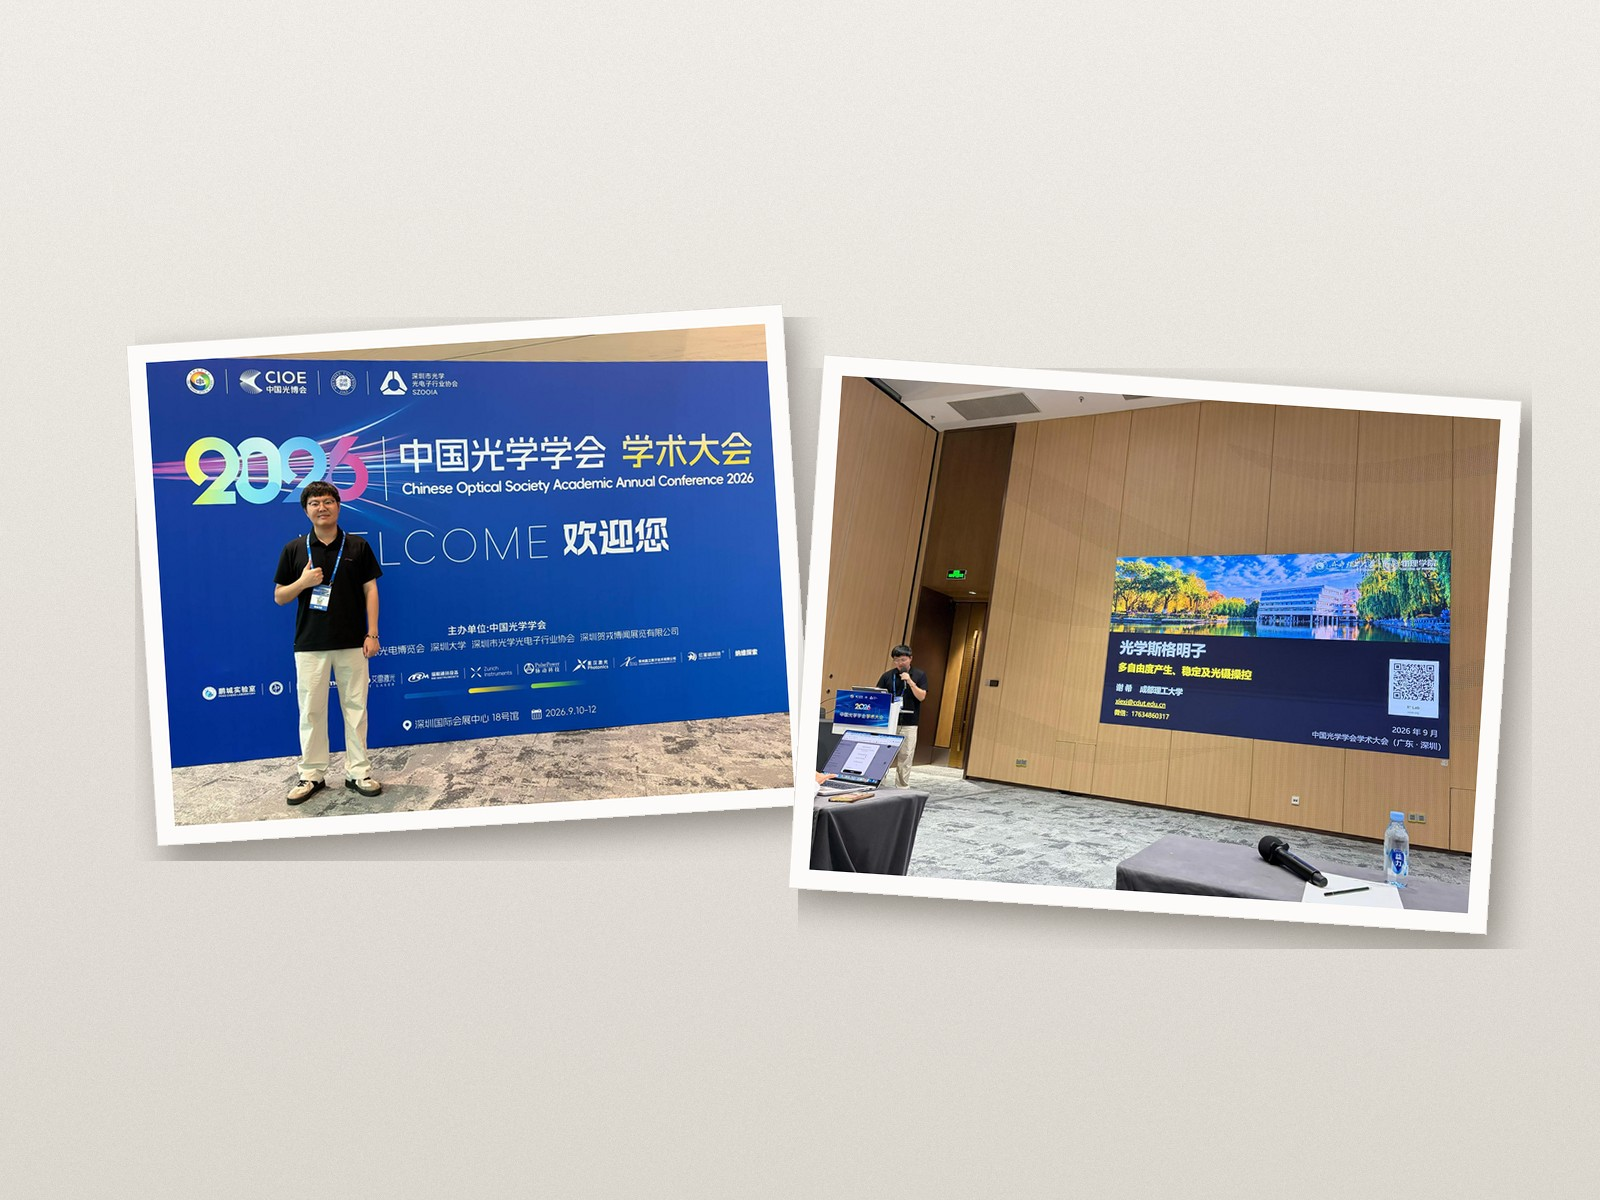
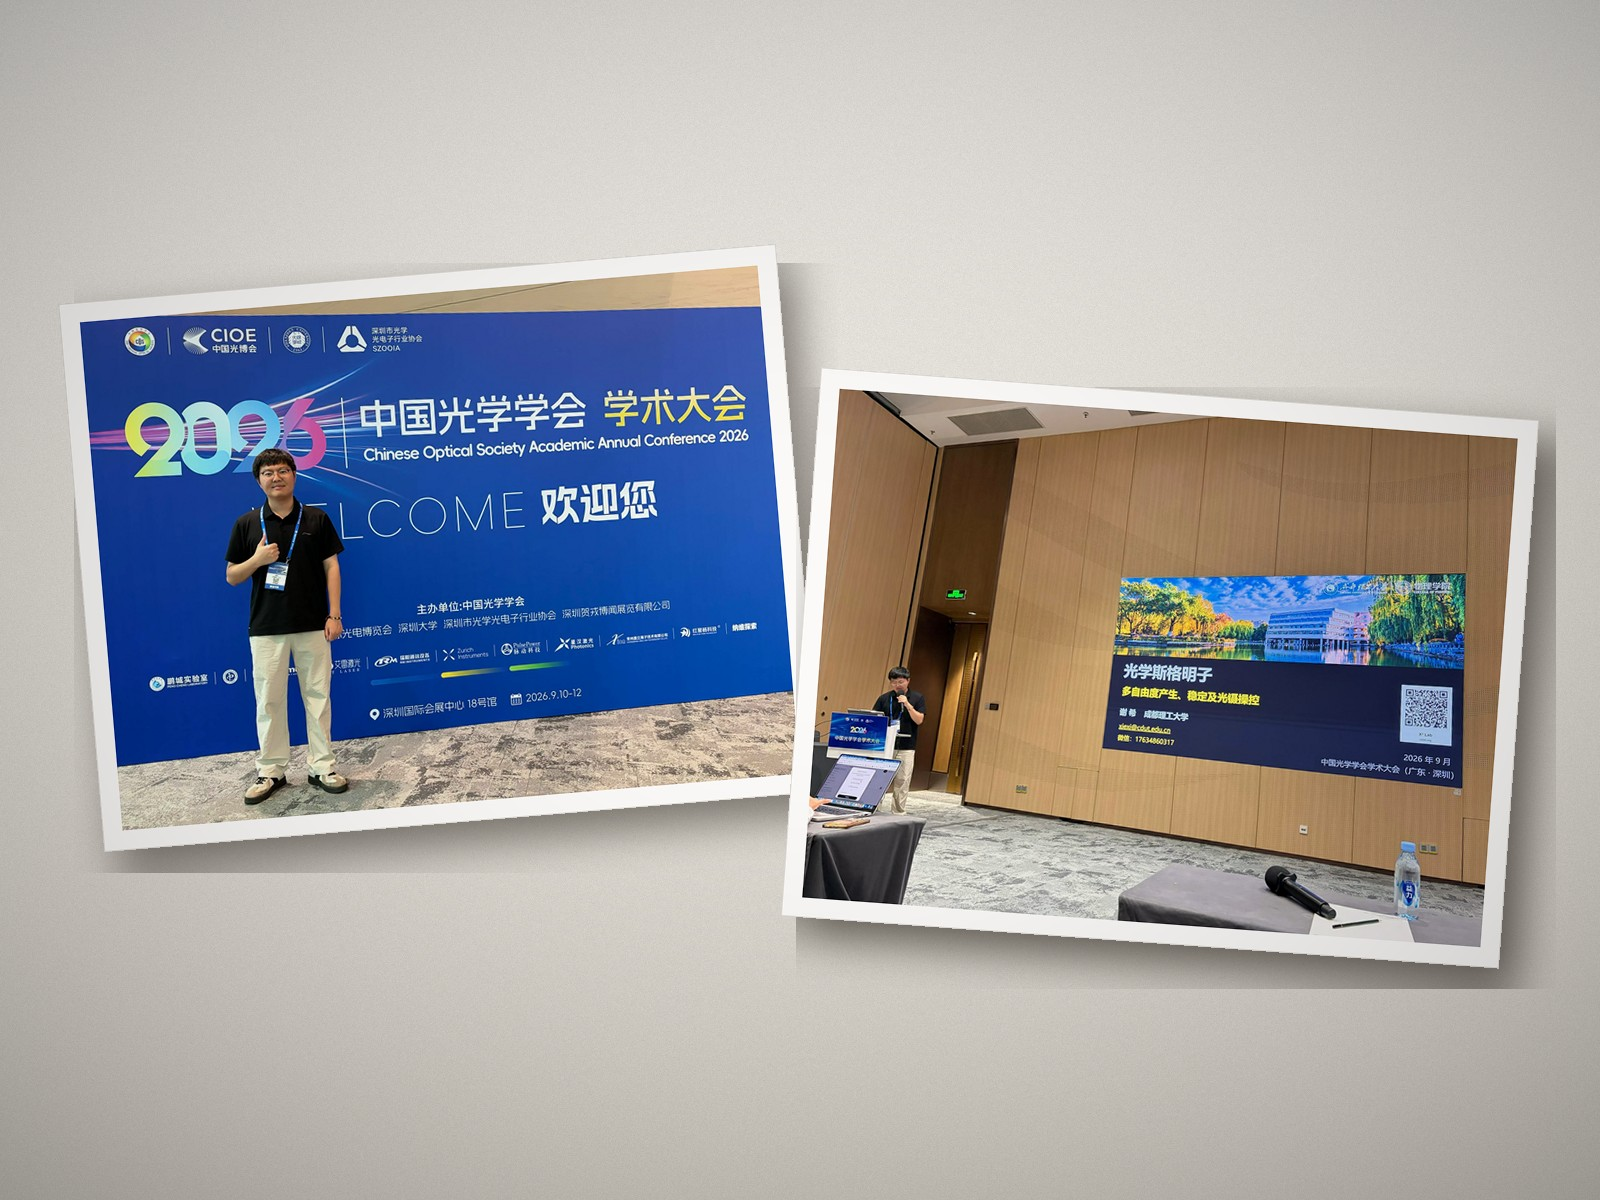
拼图改为大纸打底+斜压错落，收窄重叠避免切字，降低留白

diff --git a/scripts/pin_pair.py b/scripts/pin_pair.py
@@ -1,11 +1,8 @@
-"""两张照片拼成 4:3 相纸风拼贴（与 lcfa2026-1.jpg 同一视觉语言）"""
-import random
+"""两张照片拼成 4:3 相纸拼贴：大纸打底 + 第二张斜压其上，留白少、有遮挡层次"""
 import numpy as np
 from PIL import Image, ImageDraw, ImageFilter
 
 W, H = 1600, 1200
-WIN_W, WIN_H = 660, 495
-BORDER = 20
 
 
 def cover(im, w, h):
@@ -16,72 +13,88 @@ def cover(im, w, h):
     return im2.crop((x, y, x + w, y + h))
 
 
-def make_paper(src):
-    inner = cover(Image.open(src).convert('RGB'), WIN_W, WIN_H)
-    pw, ph = WIN_W + BORDER * 2, WIN_H + BORDER * 2
+def tint(im, warmth):
+    """warmth>0 偏暖（黄红），<0 偏冷（蓝）。幅度很小，只为打破两张纸的均质感。"""
+    if not warmth:
+        return im
+    r, g, b = im.split()
+    r = r.point(lambda v: min(255, int(v * (1 + 0.030 * warmth))))
+    b = b.point(lambda v: int(v * (1 - 0.028 * warmth)))
+    return Image.merge('RGB', (r, g, b))
+
+
+def make_paper(src, win_w, win_h, border, warmth=0.0):
+    inner = tint(cover(Image.open(src).convert('RGB'), win_w, win_h), warmth)
+    pw, ph = win_w + border * 2, win_h + border * 2
     p = Image.new('RGB', (pw, ph), (252, 251, 249))
-    p.paste(inner, (BORDER, BORDER))
-    d = ImageDraw.Draw(p)
-    d.rectangle([0, 0, pw - 1, ph - 1], outline=(226, 222, 216))
+    p.paste(inner, (border, border))
+    ImageDraw.Draw(p).rectangle([0, 0, pw - 1, ph - 1], outline=(224, 220, 214))
     return p
 
 
 def background():
-    top = np.array([239, 236, 231], dtype=np.float32)
-    bot = np.array([219, 214, 206], dtype=np.float32)
+    top = np.array([240, 237, 232], dtype=np.float32)
+    bot = np.array([214, 209, 200], dtype=np.float32)
     ramp = np.linspace(0, 1, H, dtype=np.float32)[:, None, None]
     arr = top[None, None, :] + (bot - top)[None, None, :] * ramp
     arr = np.repeat(arr, W, axis=1)
-    noise = np.random.default_rng(7).normal(0, 2.6, (H, W, 1)).astype(np.float32)
-    arr = np.clip(arr + noise, 0, 255).astype(np.uint8)
-    return Image.fromarray(arr, 'RGB')
+    noise = np.random.default_rng(7).normal(0, 2.8, (H, W, 1)).astype(np.float32)
+    return Image.fromarray(np.clip(arr + noise, 0, 255).astype(np.uint8), 'RGB')
 
 
-def place(canvas, paper, cx, cy, angle, shadow_alpha=130, shadow_offset=(10, 14), blur=16):
+def vignette(canvas, strength=0.20, reach=0.60):
+    w, h = canvas.size
+    y, x = np.mgrid[0:h, 0:w]
+    d = np.sqrt(((x - w / 2) / (w * reach)) ** 2 + ((y - h / 2) / (h * reach)) ** 2)
+    v = np.clip(1 - strength * np.clip(d, 0, 1.7) ** 2.2, 0, 1)
+    arr = np.asarray(canvas, dtype=np.float32) * v[:, :, None]
+    return Image.fromarray(np.clip(arr, 0, 255).astype(np.uint8), 'RGB')
+
+
+def place(canvas, paper, cx, cy, angle, shadow_alpha=155, offset=(16, 20), blur=20):
     rot = paper.rotate(angle, expand=True, resample=Image.BICUBIC)
     mask = Image.new('L', paper.size, 255).rotate(angle, expand=True, resample=Image.BICUBIC)
     sw, sh = rot.size
     shadow = Image.new('L', canvas.size, 0)
-    shadow_layer = Image.new('L', (sw, sh), 0)
-    shadow_layer.paste(mask, (0, 0))
-    shadow_layer = shadow_layer.point(lambda v: shadow_alpha if v > 128 else 0).filter(
-        ImageFilter.GaussianBlur(blur)
-    )
-    shadow.paste(shadow_layer, (int(cx - sw / 2 + shadow_offset[0]), int(cy - sh / 2 + shadow_offset[1])))
-    canvas.paste(Image.new('RGB', canvas.size, (60, 54, 46)), (0, 0), shadow)
+    layer = Image.new('L', (sw, sh), 0)
+    layer.paste(mask, (0, 0))
+    layer = layer.point(lambda v: shadow_alpha if v > 128 else 0).filter(ImageFilter.GaussianBlur(blur))
+    shadow.paste(layer, (int(cx - sw / 2 + offset[0]), int(cy - sh / 2 + offset[1])))
+    canvas.paste(Image.new('RGB', canvas.size, (58, 52, 44)), (0, 0), shadow)
     canvas.paste(rot, (int(cx - sw / 2), int(cy - sh / 2)), mask)
 
 
-def build(sources, out, layout):
+def build(out, layout):
     canvas = background()
     for item in layout:
-        src, cx, cy, ang = item[0], item[1], item[2], item[3]
-        scale = item[4] if len(item) > 4 else 1.0
-        paper = make_paper(src)
-        if scale != 1.0:
-            paper = paper.resize(
-                (int(paper.width * scale), int(paper.height * scale)), Image.LANCZOS
-            )
-        place(canvas, paper, cx, cy, ang)
+        paper = make_paper(item['src'], item['win'][0], item['win'][1], item.get('border', 20),
+                           item.get('warmth', 0.0))
+        if item.get('scale', 1.0) != 1.0:
+            s = item['scale']
+            paper = paper.resize((int(paper.width * s), int(paper.height * s)), Image.LANCZOS)
+        place(canvas, paper, item['cx'], item['cy'], item['angle'],
+              shadow_alpha=item.get('shadow', 155))
+    canvas = vignette(canvas)
     canvas.save(out, 'JPEG', quality=90, optimize=True, progressive=False)
     print('saved', out, canvas.size)
 
 
+BASE = r'C:\Users\admin\WorkBuddy\20260411131313\my-academic-homepage\public\Conference'
+
+JOBS = {
+    # 上层放内容更关键的一张：海报 / 大会背景板合影，压住现场照的边缘即可
+    'mahx2026-pair.jpg': [
+        dict(src=f'{BASE}\\mahx2026-2.jpg', win=(680, 510), cx=1160, cy=668, angle=4.4,
+             warmth=-0.5, shadow=185),
+        dict(src=f'{BASE}\\mahx2026-1.jpg', win=(680, 510), cx=440, cy=548, angle=-5.2, warmth=0.9),
+    ],
+    'osac2026-pair.jpg': [
+        dict(src=f'{BASE}\\osac2026-1.jpg', win=(680, 510), cx=440, cy=548, angle=4.8, warmth=-0.5),
+        dict(src=f'{BASE}\\osac2026-2.jpg', win=(680, 510), cx=1160, cy=668, angle=-4.2,
+             warmth=0.9, shadow=185),
+    ],
+}
+
 if __name__ == '__main__':
-    base = r'C:\Users\admin\WorkBuddy\20260411131313\my-academic-homepage\public\Conference'
-    build(
-        [f'{base}\\mahx2026-1.jpg', f'{base}\\mahx2026-2.jpg'],
-        f'{base}\\mahx2026-pair.jpg',
-        [
-            (f'{base}\\mahx2026-1.jpg', 445, 640, -4.2, 1.0),
-            (f'{base}\\mahx2026-2.jpg', 1160, 570, 3.4, 0.94),
-        ],
-    )
-    build(
-        [f'{base}\\osac2026-1.jpg', f'{base}\\osac2026-2.jpg'],
-        f'{base}\\osac2026-pair.jpg',
-        [
-            (f'{base}\\osac2026-1.jpg', 470, 575, 3.6, 0.94),
-            (f'{base}\\osac2026-2.jpg', 1155, 645, -3.8, 1.0),
-        ],
-    )
+    for name, layout in JOBS.items():
+        build(f'{BASE}\\{name}', layout)
